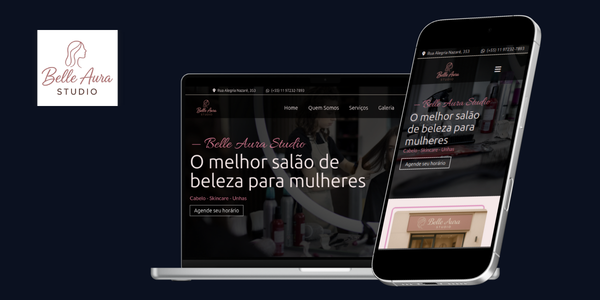
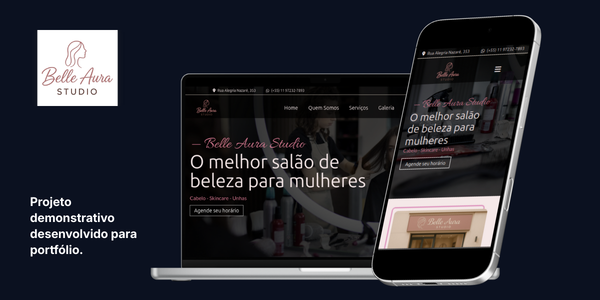
atualizando o portfolio

Changed region(s): [[0.03, 0.66, 0.24, 0.87]]

diff --git a/site_vendas/index.html b/site_vendas/index.html
@@ -450,6 +450,7 @@
         <div class="grid sm:grid-cols-2 lg:grid-cols-3 gap-6">
 
         <!-- CARD 1 -->
+         <a target="_blank" href="https://ecarrascosa-dev.github.io/projetos-carrascosa/projeto-salao">
         <div
             class="group cursor-pointer bg-slate-900/60 backdrop-blur-sm rounded-xl overflow-hidden border border-white/5 hover:border-blue-500/40 transition hover:scale-[1.02]
 ">
@@ -481,18 +482,14 @@
                 <span class="bg-blue-500/10 text-blue-400 px-2 py-1 rounded">
                 CSS
                 </span>
-                <a href="https://ecarrascosa-dev.github.io/projetos-carrascosa/projeto-salao/" class="bg-gray-500/10 text-white-400 px-2 py-1 rounded">
-                link
-                </a>
             </div>
             </div>
         </div>
 
         <!-- CARD 2 -->
+        <a target="_blank" href="https://ecarrascosa-dev.github.io/projetos-carrascosa/projeto-barber/">
         <div
-            class="group cursor-pointer bg-slate-900/60 backdrop-blur-sm rounded-xl overflow-hidden border border-white/5 hover:border-blue-500/40 transition hover:scale-[1.02]
-">
-
+            class="group cursor-pointer bg-slate-900/60 backdrop-blur-sm rounded-xl overflow-hidden border border-white/5 hover:border-blue-500/40 transition hover:scale-[1.02]">
             <div class="relative overflow-hidden">
             <img src="assets/imgs/banner-barber-premium.png"
                 class="w-full h-44 group-hover:scale-105 transition duration-500">
@@ -520,40 +517,49 @@
                 <span class="bg-blue-500/10 text-blue-400 px-2 py-1 rounded">
                 CSS
                 </span>
-                <a href="https://ecarrascosa-dev.github.io/projetos-carrascosa/projeto-barber/" class="bg-gray-500/10 text-white-400 px-2 py-1 rounded">
-                link
-                </a>
             </div>
             </div>
         </div>
-        <div
-            class="group cursor-pointer bg-slate-900/60 backdrop-blur-sm rounded-xl overflow-hidden border border-white/5 hover:border-blue-500/40 transition hover:scale-[1.02]
-">
+        </a>
+        <a target="_blank" href="https://ecarrascosa-dev.github.io/projetos-carrascosa/projeto-institucional/">
+        <div class="group cursor-pointer bg-slate-900/60 backdrop-blur-sm rounded-xl overflow-hidden border border-white/5 hover:border-accent/40 transition hover:scale-[1.02]">
 
             <div class="relative overflow-hidden">
-            <img src="https://via.placeholder.com/600x400"
-                class="w-full h-44 object-cover group-hover:scale-105 transition duration-500">
+                <img src="assets/imgs/banner-advogacia.png"
+                    alt="Preview do site Rafael Almeida Advocacia"
+                    width="600"
+                    height="400"
+                    loading="lazy"
+                    class="w-full h-44 object-cover group-hover:scale-105 transition duration-500">
             </div>
 
             <div class="p-4">
-            <h4 class="font-display text-base font-semibold mb-1">
-                Sistema Gamma
-            </h4>
+                <h4 class="font-display text-base font-semibold mb-1 text-white">
+                    Rafael Almeida Advocacia
+                </h4>
 
-            <p class="text-xs text-slate-400 mb-3">
-                Plataforma web personalizada.
-            </p>
+                <p class="text-xs text-slate-400 mb-3">
+                    Site institucional premium para escritório de advocacia, 
+                    com foco em performance, conversão e design estratégico.
+                </p>
 
-            <div class="flex gap-2 flex-wrap text-[10px]">
-                <span class="bg-blue-500/10 text-blue-400 px-2 py-1 rounded">
-                React
-                </span>
-                <span class="bg-blue-500/10 text-blue-400 px-2 py-1 rounded">
-                API
-                </span>
-            </div>
+                <div class="flex gap-2 flex-wrap text-[10px]">
+                    <span class="bg-accent/10 text-accent px-2 py-1 rounded">
+                        HTML
+                    </span>
+                    <span class="bg-accent/10 text-accent px-2 py-1 rounded">
+                        Tailwind
+                    </span>
+                    <span class="bg-accent/10 text-accent px-2 py-1 rounded">
+                        Responsivo
+                    </span>
+                    <span class="bg-accent/10 text-accent px-2 py-1 rounded">
+                        SEO
+                    </span>
+                </div>
             </div>
         </div>
+        </a>
     </div>
     </section>
     <section id="sobre" class="reveal py-32 px-6 border-t border-white/5 relative overflow-hidden">
@@ -670,86 +676,86 @@
 
     <section class="reveal py-32 px-6 border-t border-white/5 relative overflow-hidden">
 
-    <!-- Background glow -->
-    <div class="absolute -top-40 left-1/2 -translate-x-1/2 
-                w-[90vw] max-w-[800px] aspect-square
-                bg-blue-600/10 blur-[180px] rounded-full"></div>
+        <!-- Background glow -->
+        <div class="absolute -top-40 left-1/2 -translate-x-1/2 
+                    w-[90vw] max-w-[800px] aspect-square
+                    bg-blue-600/10 blur-[180px] rounded-full"></div>
 
-    <div class="max-w-7xl mx-auto grid md:grid-cols-2 gap-20 items-center relative z-10">
+        <div class="max-w-7xl mx-auto grid md:grid-cols-2 gap-20 items-center relative z-10">
 
-        <!-- TEXTO -->
-        <div class="space-y-8">
+            <!-- TEXTO -->
+            <div class="space-y-8">
 
-        <span class="text-blue-400 uppercase tracking-widest text-sm">
-            Resultado real
-        </span>
+            <span class="text-blue-400 uppercase tracking-widest text-sm">
+                Resultado real
+            </span>
 
-        <h3 class="text-4xl md:text-5xl font-bold leading-tight">
-            Um site comum
-            <br>
-            não muda seu negócio.
-        </h3>
+            <h3 class="text-4xl md:text-5xl font-bold leading-tight">
+                Um site comum
+                <br>
+                não muda seu negócio.
+            </h3>
 
-        <p class="text-slate-400 text-lg leading-relaxed">
-            Estrutura estratégica, posicionamento e performance
-            transformam visitantes em oportunidades.
-        </p>
-        <div class="space-y-4">
-            <div class="flex items-center gap-4">
-            <div class="w-3 h-3 bg-blue-500 rounded-full shadow-lg shadow-blue-500/50"></div>
-            <p class="text-slate-300">Mais autoridade no primeiro impacto</p>
+            <p class="text-slate-400 text-lg leading-relaxed">
+                Estrutura estratégica, posicionamento e performance
+                transformam visitantes em oportunidades.
+            </p>
+            <div class="space-y-4">
+                <div class="flex items-center gap-4">
+                <div class="w-3 h-3 bg-blue-500 rounded-full shadow-lg shadow-blue-500/50"></div>
+                <p class="text-slate-300">Mais autoridade no primeiro impacto</p>
+                </div>
+
+                <div class="flex items-center gap-4">
+                <div class="w-3 h-3 bg-blue-500 rounded-full shadow-lg shadow-blue-500/50"></div>
+                <p class="text-slate-300">Experiência fluida e moderna</p>
+                </div>
+
+                <div class="flex items-center gap-4">
+                <div class="w-3 h-3 bg-blue-500 rounded-full shadow-lg shadow-blue-500/50"></div>
+                <p class="text-slate-300">Estrutura pensada para conversão</p>
+                </div>
+            </div>
             </div>
 
-            <div class="flex items-center gap-4">
-            <div class="w-3 h-3 bg-blue-500 rounded-full shadow-lg shadow-blue-500/50"></div>
-            <p class="text-slate-300">Experiência fluida e moderna</p>
+            <!-- VISUAL MOCKUP -->
+            <div class="relative">
+
+            <!-- Card principal -->
+            <div class="relative bg-white/5 backdrop-blur-xl 
+                        border border-white/10 
+                        rounded-3xl 
+                        p-6 shadow-2xl animate-float">
+
+                <img 
+                src="assets/imgs/mockup-site.png"
+                alt="Mockup projeto"
+                class="rounded-xl "
+                />
+
             </div>
 
-            <div class="flex items-center gap-4">
-            <div class="w-3 h-3 bg-blue-500 rounded-full shadow-lg shadow-blue-500/50"></div>
-            <p class="text-slate-300">Estrutura pensada para conversão</p>
+            <!-- Card flutuante 1 -->
+            <div class="absolute -top-10 -right-10 
+                        bg-blue-600/20 backdrop-blur-xl 
+                        border border-blue-500/30 
+                        rounded-2xl p-4 text-sm animate-float">
+
+                +38% Conversão
             </div>
-        </div>
-        </div>
 
-        <!-- VISUAL MOCKUP -->
-        <div class="relative">
+            <!-- Card flutuante 2 -->
+            <div class="absolute -bottom-8 -left-8 
+                        bg-white/5 backdrop-blur-xl 
+                        border border-white/10 
+                        rounded-2xl p-4 text-sm animate-float">
 
-        <!-- Card principal -->
-        <div class="relative bg-white/5 backdrop-blur-xl 
-                    border border-white/10 
-                    rounded-3xl 
-                    p-6 shadow-2xl animate-float">
+                Performance 95+
+            </div>
 
-            <img 
-            src="assets/imgs/mockup-site.png"
-            alt="Mockup projeto"
-            class="rounded-xl "
-            />
+            </div>
 
         </div>
-
-        <!-- Card flutuante 1 -->
-        <div class="absolute -top-10 -right-10 
-                    bg-blue-600/20 backdrop-blur-xl 
-                    border border-blue-500/30 
-                    rounded-2xl p-4 text-sm animate-float">
-
-            +38% Conversão
-        </div>
-
-        <!-- Card flutuante 2 -->
-        <div class="absolute -bottom-8 -left-8 
-                    bg-white/5 backdrop-blur-xl 
-                    border border-white/10 
-                    rounded-2xl p-4 text-sm animate-float">
-
-            Performance 95+
-        </div>
-
-        </div>
-
-    </div>
 
     </section>
 

diff --git a/projeto-institucional/index.html b/projeto-institucional/index.html
@@ -34,7 +34,7 @@ tailwind.config = {
 <body class="bg-light text-dark">
 
     <header id="header" class="fixed w-full z-50 transition-all duration-500">
-        <div class="max-w-7xl mx-auto px-6 py-4 flex justify-center items-center text-white">
+        <div class="max-w-7xl mx-auto px-6 py-4 flex justify-between md:justify-center items-center text-white">
 
             <!-- Logo -->
             <img loading="lazy" src="imgs/logo_full.png" class="w-[70px] mr-10" alt="Logo Rafael Almeida Advocacia">

diff --git a/projeto-institucional/script.js b/projeto-institucional/script.js
@@ -56,7 +56,7 @@ setInterval(nextSlideCarrossel, 3000);
 // EFEITO DIGITANDO
 const text = "Combatividade. Confidencialidade. Técnica.";
 let index = 0;
-const speed = 50;
+const speed = 100;
 
 function typeEffect() {
   if (index < text.length) {
@@ -95,7 +95,7 @@ nextBtn.addEventListener("click", nextSlide);
 prevBtn.addEventListener("click", prevSlide);
 
 // Auto Slide
-setInterval(nextSlide, 2000);
+setInterval(nextSlide, 4000);
 
 // Animações
 // ===== SCROLL REVEAL =====
